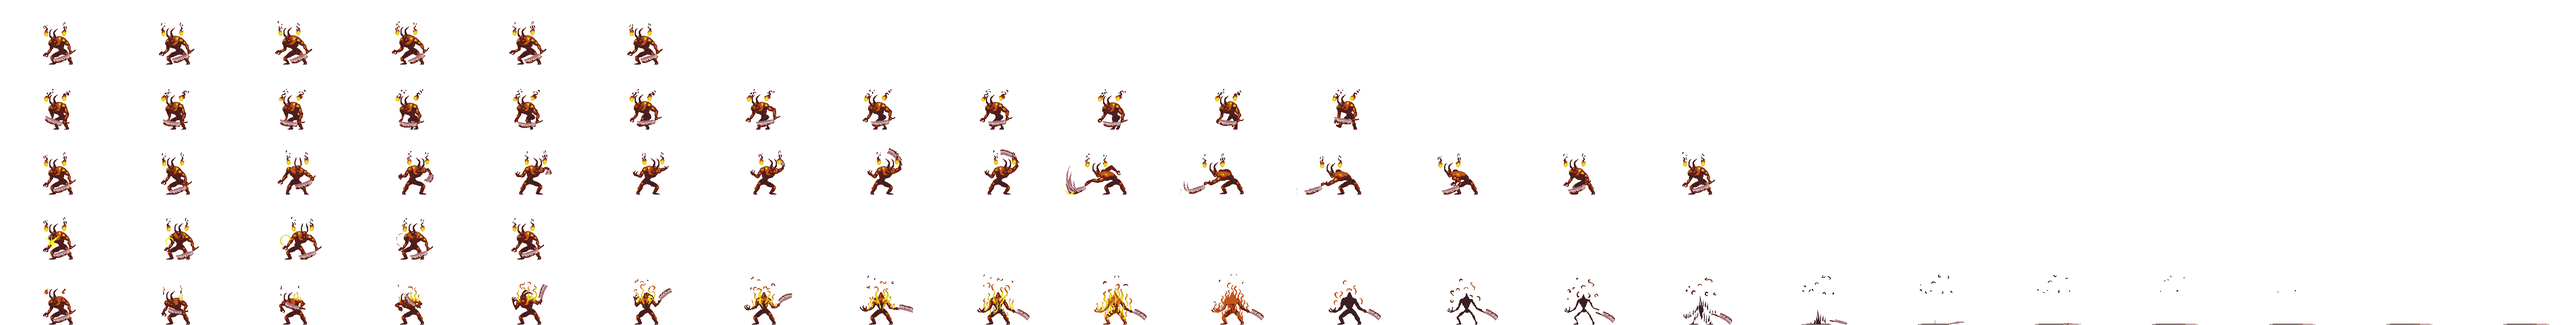
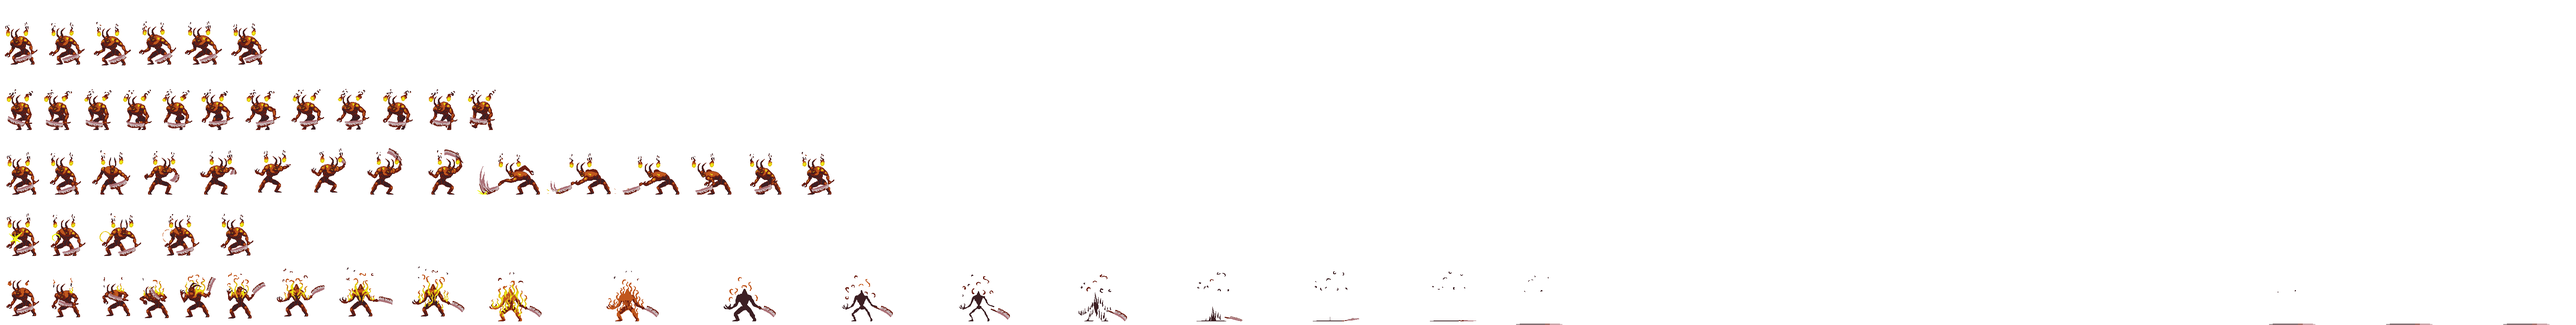
Corrigindo o walk do Boss

diff --git a/classes/Boss.js b/classes/Boss.js
@@ -1,4 +1,4 @@
-const BOSS_X_VELOCITY = -35
+const BOSS_X_VELOCITY = -45
 const BOSS_JUMP_POWER = 300
 const BOSS_GRAVITY = 580
 
@@ -15,7 +15,7 @@ class Boss {
     this.velocity = velocity
     this.isOnGround = false
     this.isImageLoaded = false
-    this.maxHealth = 50
+    this.maxHealth = 100
     this.currentHealth = this.maxHealth
     this.isAlive = true
     this.isDying = false
@@ -33,39 +33,39 @@ class Boss {
     console.log('Tentando carregar imagem do Boss:', './images/boss.png')
     this.image.src = './images/boss.png'
     console.log('Boss initialized at position:', { x, y })
-    this.elapsedTime = 0
-    this.currentFrame = 0
+    this.elapsedTime = 100
+    this.currentFrame = 1000
     this.sprites = {
       idle: {
-        x: 0,
+        x: 100,
         y: 0,
         width: 128,
         height: 128,
         frames: 7,
       },
       walk: {
-        x: 9,
+        x: 4,
         y: 228,
         width: 94,
-        height: 98,
-        frames: 12,
+        height: 92,
+        frames: 6,
       },
       attack: {
-        x: 0,
+        x: 100,
         y: 256,
         width: 128,
         height: 128,
         frames: 8,
       },
       hit: {
-        x: 0,
+        x: 100,
         y: 384,
         width: 128,
         height: 128,
         frames: 4,
       },
       death: {
-        x: 0,
+        x: 100,
         y: 512,
         width: 128,
         height: 128,
@@ -77,8 +77,8 @@ class Boss {
     this.hitbox = {
       x: this.x + 20,
       y: this.y + 20,
-      width: 110,
-      height: 104,
+      width: 98,
+      height: 108,
     }
     this.distanceTraveled = 0
     this.turningDistance = turningDistance
@@ -132,9 +132,13 @@ class Boss {
 
       c.save()
       c.scale(xScale, 1)
+      
+      // Calculando a posição do frame atual
+      const frameX = this.currentSprite.x + (this.currentSprite.width * Math.floor(this.currentFrame))
+      
       c.drawImage(
         this.image,
-        this.currentSprite.x + this.currentSprite.width * this.currentFrame,
+        frameX,
         this.currentSprite.y,
         this.currentSprite.width,
         this.currentSprite.height,
@@ -155,7 +159,7 @@ class Boss {
 
     // Updating animation frames
     this.elapsedTime += deltaTime
-    const secondsInterval = 0.1
+    const secondsInterval = 0.05 // Reduzindo o intervalo para uma animação mais fluida
 
     if (this.elapsedTime > secondsInterval) {
       this.currentFrame = (this.currentFrame + 1) % this.currentSprite.frames
@@ -220,9 +224,9 @@ class Boss {
 
   determineDirection() {
     if (this.velocity.x > 0) {
-      this.facing = 'left'
-    } else if (this.velocity.x < 0) {
       this.facing = 'right'
+    } else if (this.velocity.x < 0) {
+      this.facing = 'left'
     }
   }
 

diff --git a/js/index.js b/js/index.js
@@ -455,6 +455,15 @@ function init() {
     width: 128,
     height: 128,
   })
+
+  // boss = new Boss({
+  //   x: 490,
+  //   y: 100,
+  //   width: 128,
+  //   height: 128,
+  // })
+
+  
   
   boss.setPlayer(player)
   console.log('Boss criado:', boss)
